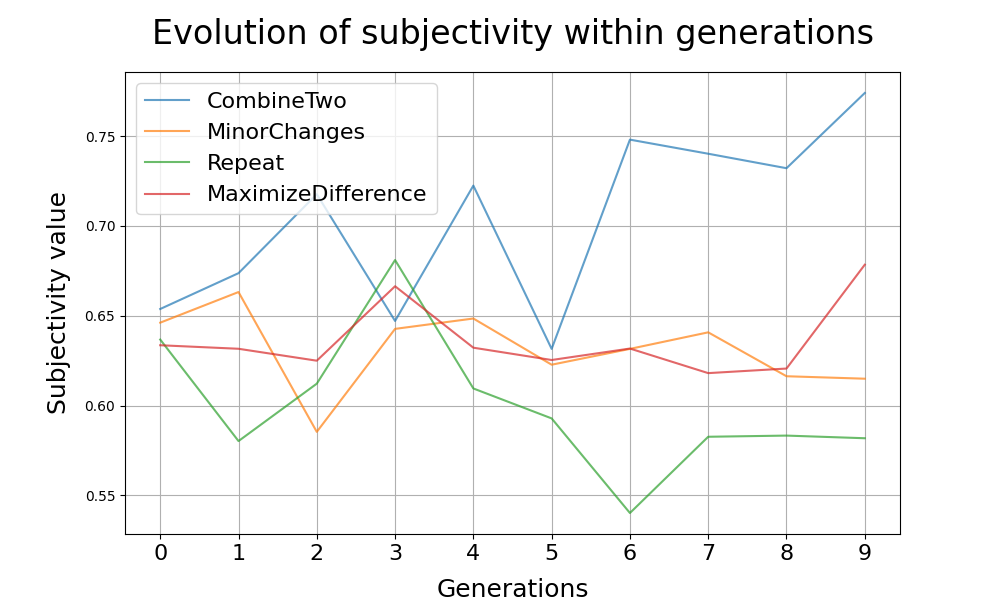
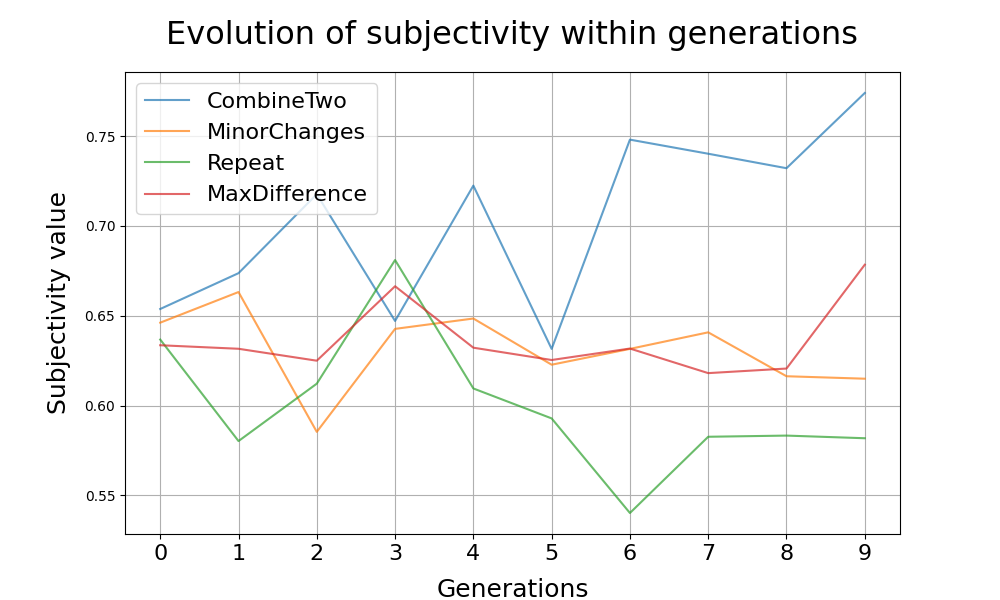
Modify matrix and title sizes and update plots

Changed region(s): [[0.155, 0.03, 0.868, 0.09], [0.248, 0.3, 0.434, 0.36], [0.372, 0.21, 0.403, 0.24]]

diff --git a/run_comparison_analysis.py b/run_comparison_analysis.py
@@ -60,18 +60,20 @@ if __name__ == "__main__":
     parser.add_argument("--ticks_font_size", type=int, default=16)
     parser.add_argument("--labels_font_size", type=int, default=18)
     parser.add_argument("--legend_font_size", type=int, default=16)
-    parser.add_argument("--title_font_size", type=int, default=24)
+    parser.add_argument("--title_font_size", type=int, default=23)
+    parser.add_argument("--matrix_size", type=int, default=8)
     args = parser.parse_args()
 
     analyzed_dirs = args.dirs.split('+')
     dirs_list = [f"Results/{dir_name}" for dir_name in analyzed_dirs]
 
     labels = args.labels.split('+')
-    font_sizes = {'ticks': args.ticks_font_size,
+    sizes = {'ticks': args.ticks_font_size,
                   'labels': args.labels_font_size,
                   'legend': args.legend_font_size,
-                  'title': args.title_font_size}
+                  'title': args.title_font_size,
+                  'matrix': args.matrix_size}
 
     print(f"\nLaunching analysis on the {args.dirs} results")
     print(f"plot = {args.plot}")
-    main_analysis(dirs_list, args.plot, args.scale_y_axis, labels, font_sizes)
+    main_analysis(dirs_list, args.plot, args.scale_y_axis, labels, sizes)

diff --git a/llm_culture/analysis/comparison_plots.py b/llm_culture/analysis/comparison_plots.py
@@ -246,7 +246,7 @@ def compare_creativity_evolution(data, plot, sizes, saving_folder=None, scale_y_
 
 
 def plot_similarity_matrix(similarity_matrix, label, n_gen, n_agents, plot, sizes, saving_folder=None):
-    plt.figure(figsize=(MATRIX_SIZE, MATRIX_SIZE))
+    plt.figure(figsize=(sizes['matrix'], sizes['matrix']))
     plt.imshow(similarity_matrix, vmin=0, vmax=1, cmap='viridis')
 
     n_texts = similarity_matrix.shape[0]
